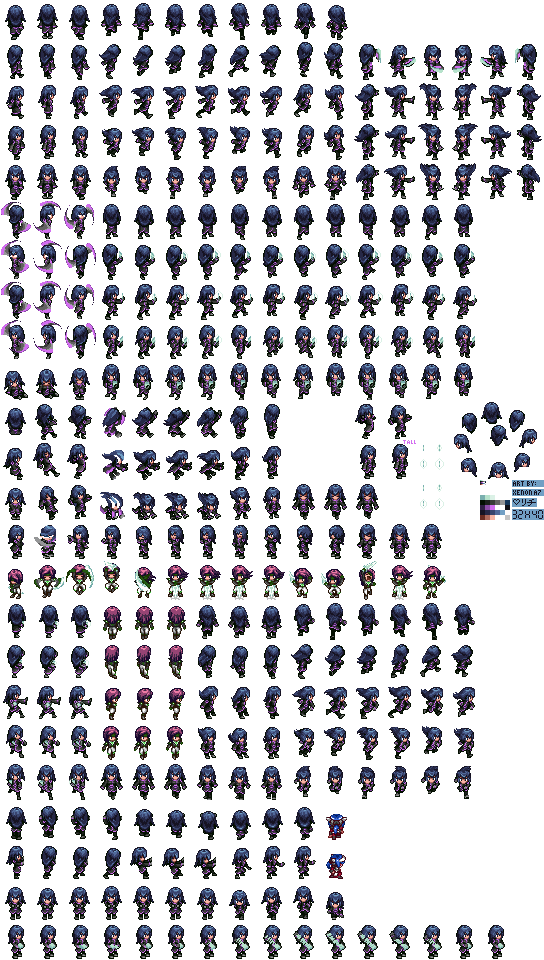
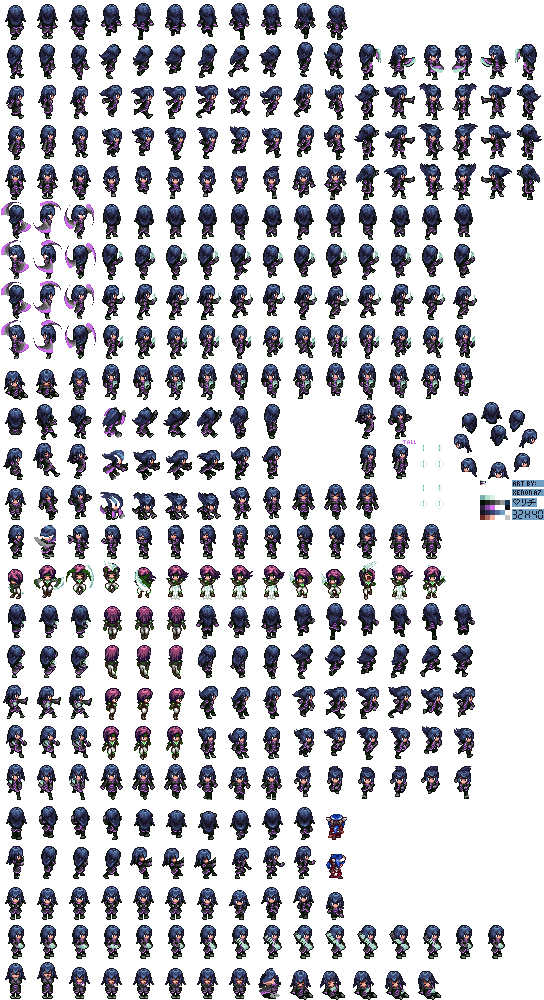
0.28.1
Beach NPC encounter

diff --git a/changelog.md b/changelog.md
@@ -1,3 +1,13 @@
+## 0.28.1 (03/17/2024)
+### New Content
+- Added new NPC encounter in path-04 of Azure Archipelago (Rough Lagoon)
+- Added Hexacast animations from **HeartLychee**:
+  * exhale
+  * fanPre
+  * fanLoop
+### Changes
+ - Removed redundant floatEyesClosed sprites from hexacast2.png
+
 ## 0.28.0 (03/16/2024)
 ### General
 - Now requires XTM version 1.0.0 or later
@@ -17,7 +27,7 @@
 - Removed all "plot.xtm.character" from character change signs
 - Removed commented broken code from custom-action-steps.js
 ### Fixes
-- Hex Barrier: Fixed player facing the mouce cursor while active
+- Hex Barrier: Fixed player facing the mouse cursor while active
 - Hex Barrier: Fixed looping hexBarrierBlocker effect for some users
 - Ultimate PVP: Fixed logic bug when selecting 3 rounds
 - Ultimate PVP: Fixed final round events not working when using default 5 rounds
